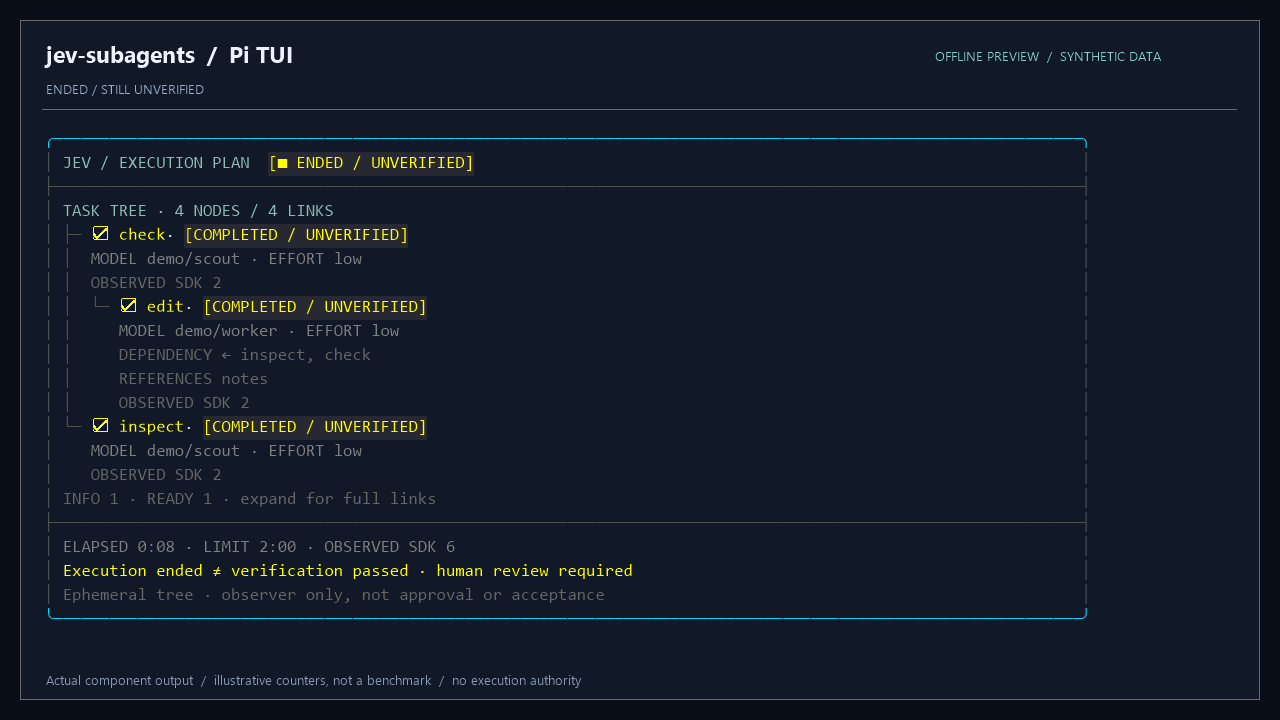
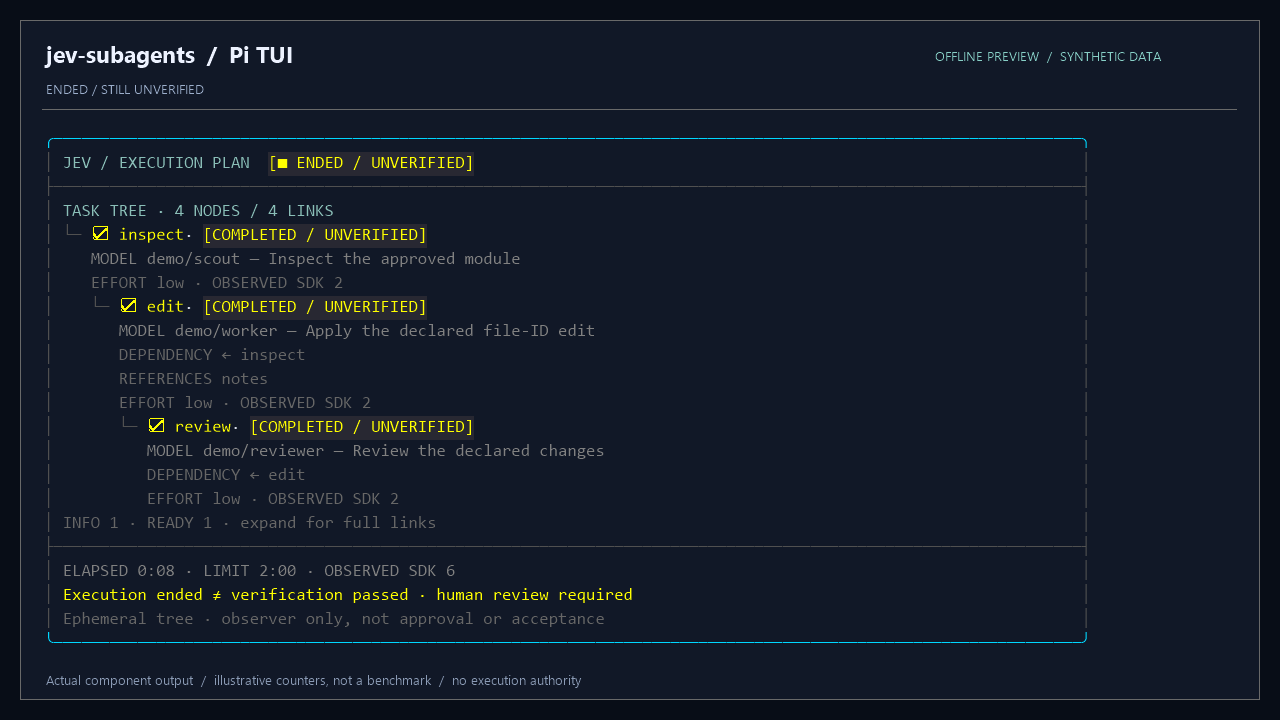
feat(ui): display English task labels on three-level plan previews

Changed region(s): [[0.0312, 0.55, 0.5, 0.8861], [0.0625, 0.3056, 0.4062, 0.3972], [0.25, 0.4278, 0.3438, 0.5194]]

diff --git a/src/plan-presentation.ts b/src/plan-presentation.ts
@@ -45,6 +45,8 @@ export type PlanView = {
 export type PlanTheme = Pick<Theme, "fg"> & Partial<Pick<Theme, "bg" | "bold">>;
 /** Supplied by the ephemeral widget, never stored in a view or receipt. */
 export type PlanFrame = { readonly tick: number };
+/** Reviewed human-only labels travel separately from transcript-safe plan data. */
+export type PlanTaskLabels = Readonly<Record<string, string>>;
 export function planHasActivity(view: PlanView): boolean {
   return ["running", "selecting", "checking"].includes(view.phase);
 }
@@ -117,7 +119,7 @@ const noPrefix: Prefix = { text: "", columns: 0 };
  * eight columns only an ellipsis fits usefully. Long fields show their head plus
  * an explicit omission marker; all in-contract A/B choices retain separate rows.
  * The same bounded layout is used by planText, with no ANSI in unthemed output. */
-export function renderPlan(view: PlanView, width: number, theme?: PlanTheme, summary = false, frame?: PlanFrame): string[] {
+export function renderPlan(view: PlanView, width: number, theme?: PlanTheme, summary = false, frame?: PlanFrame, taskLabels?: PlanTaskLabels): string[] {
   if (!Number.isSafeInteger(width) || width <= 0) return [];
   const columns = Math.min(width, 120);
   if (columns < 8) return ["…"];
@@ -279,14 +281,24 @@ export function renderPlan(view: PlanView, width: number, theme?: PlanTheme, sum
       const status = pill(badge, `[${badge.label}]`), heading = `${name} · ${status}`;
       if (visualLines(heading, inner - head.columns).length <= 2) row(heading, head, 2, tail);
       else { row(name, head, 2, tail); row(status, tail, Number.MAX_SAFE_INTEGER); }
-      row(paint("muted", `MODEL ${source(node.model ?? "pending")} · EFFORT ${source(node.thinking ?? "pending")}`), tail, 3);
+      const label: unknown = taskLabels ? Object.getOwnPropertyDescriptor(taskLabels, node.id)?.value : undefined;
+      const labeled = typeof label === "string" && label.trim().length > 0;
+      if (labeled) {
+        const text = paint("muted", `MODEL ${source(node.model ?? "pending")} — ${source(label.slice(0, 120))}`);
+        const available = inner - tail.columns, wrapped = visualLines(text, available);
+        if (wrapped.length > 1) {
+          omitted = true;
+          row(visualLines(text, available - 2)[0]! + paint("warning", " …"), tail, 1);
+        } else row(text, tail, 1);
+      } else row(paint("muted", `MODEL ${source(node.model ?? "pending")} · EFFORT ${source(node.thinking ?? "pending")}`), tail, 3);
       if (node.after.length) row(paint("dim", `DEPENDENCY ← ${node.after.map(id => source(id)).join(", ")}`), tail, 2);
       const references = edges.filter(edge => edge.kind === "reference" && edge.to === node.id);
       if (references.length) {
         const selected = references.filter(edge => edge.status === "active").map(edge => source(edge.from));
         row(paint("dim", `REFERENCES ${selected.length ? selected.join(", ") : references.some(edge => edge.status === "pending") ? "pending" : "none"}`), tail, 2);
       }
-      if (node.modelCalls !== undefined) row(paint("dim", `OBSERVED SDK ${validCount(node.modelCalls) ? node.modelCalls : "unknown"}`), tail, 2);
+      if (node.modelCalls !== undefined) row(paint("dim", `${labeled ? `EFFORT ${source(node.thinking ?? "pending")} · ` : ""}OBSERVED SDK ${validCount(node.modelCalls) ? node.modelCalls : "unknown"}`), tail, 2);
+      else if (labeled) row(paint("dim", `EFFORT ${source(node.thinking ?? "pending")}`), tail, 2);
       if ((depths.get(node.id) ?? 1) >= displayDepth && below.length) {
         below.forEach(node => shown.add(node.id));
         row(paint("muted", `… ${below.length} hidden descendant${below.length === 1 ? "" : "s"} · ${stateCounts(below)}`), tail, Number.MAX_SAFE_INTEGER);

diff --git a/src/plan-widget.ts b/src/plan-widget.ts
@@ -1,5 +1,5 @@
 import type { ExtensionAPI, ExtensionContext } from "@earendil-works/pi-coding-agent";
-import { planHasActivity, renderPlan, type PlanView } from "./plan-presentation.ts";
+import { planHasActivity, renderPlan, type PlanView, type PlanTaskLabels } from "./plan-presentation.ts";
 import { planReceipt } from "./plan-state.ts";
 
 const FRAME_MS = 120; // ~8fps, only while the supplied view describes live work.
@@ -16,14 +16,14 @@ export function registerPlanWidgets(pi: ExtensionAPI) {
     // Effect-local accessibility policy; never part of a receipt or execution packet.
     const staticSafe = process.env.NO_COLOR !== undefined || process.env.TERM === "dumb";
     let closed = false, mounted = false, terminal = false, sessionId: string | undefined;
-    let view: PlanView | undefined, displayed: PlanView | undefined, requestRender: (() => void) | undefined;
+    let view: PlanView | undefined, displayed: PlanView | undefined, taskLabels: PlanTaskLabels | undefined, requestRender: (() => void) | undefined;
     let observedAt = 0, tick = 0, timer: ReturnType<typeof setInterval> | undefined;
     try { sessionId = ctx.sessionManager.getSessionId(); } catch { /* A missing session cannot receive a widget. */ }
     const stopTimer = () => { clearInterval(timer); timer = undefined; };
     const close = () => {
       if (closed) return;
       closed = true; stopTimer(); signal?.removeEventListener("abort", close);
-      view = undefined; displayed = undefined; requestRender = undefined;
+      view = undefined; displayed = undefined; taskLabels = undefined; requestRender = undefined;
       const remove = mounted; mounted = false;
       if (clearCurrent === close) clearCurrent = undefined;
       if (remove) { try { ctx.ui.setWidget("jev-execution-plan", undefined); } catch { /* UI disposal cannot change task settlement. */ } }
@@ -55,12 +55,16 @@ export function registerPlanWidgets(pi: ExtensionAPI) {
     if (signal?.aborted) close();
     return {
       isCurrent: current,
-      update(value: PlanView) {
+      update(value: PlanView, labels?: PlanTaskLabels) {
         if (!current() || terminal) return;
         try {
           if (ctx.mode !== "tui" || !ctx.hasUI || typeof ctx.ui.setWidget !== "function") { if (mounted) close(); return; }
           // Explicit projection strips private titles and any undeclared properties before retention.
           view = structuredClone(planReceipt(value)); displayed = view; observedAt = performance.now();
+          taskLabels = value.version === 3 && labels ? Object.fromEntries(view.nodes.flatMap(node => {
+            const text: unknown = Object.getOwnPropertyDescriptor(labels, node.id)?.value;
+            return node.kind === "task" && typeof text === "string" && text.trim() ? [[node.id, text.slice(0, 120)]] : [];
+          })) : undefined;
           terminal = view.phase === "finished" || view.phase === "stopped";
           if (!animated()) { stopTimer(); tick = 0; }
           if (!mounted) {
@@ -71,7 +75,7 @@ export function registerPlanWidgets(pi: ExtensionAPI) {
               return {
                 render(width) {
                   if (!current() || !displayed) return [];
-                  try { return renderPlan(displayed, width, staticSafe ? undefined : theme, true, animated() ? { tick } : undefined); }
+                  try { return renderPlan(displayed, width, staticSafe ? undefined : theme, true, animated() ? { tick } : undefined, taskLabels); }
                   catch { close(); return []; }
                 },
                 // Stateless themed rendering: invalidation cannot retain old ANSI colors.

diff --git a/src/task-tree-effects.ts b/src/task-tree-effects.ts
@@ -24,7 +24,7 @@ import { reduceTaskTree, treeLive, treeTasks, treeInfos, treeReferences, treeDig
   type TreePrepared, type TaskTreeInput, type TreeEvent, type TreeEffect, type TreeSelection, type TreeUpdate, type TreeState } from "./task-tree.ts";
 import { treeOwner, treeLock, treePrompts, validTreeWorker, type TreeWorkerInput } from "./task-tree-protocol.ts";
 import { taskTreeView } from "./task-tree-view.ts";
-import type { PlanView } from "./plan-presentation.ts";
+import type { PlanView, PlanTaskLabels } from "./plan-presentation.ts";
 
 export const TREE_ERROR = "Task tree stopped. No automatic retry, fallback, grant extension or rollback.";
 const fail = (): never => { throw new Error(TREE_ERROR); };
@@ -102,7 +102,7 @@ export type TreeResult = { readonly authorization?: "full_access"; readonly kind
   readonly reports: readonly { taskId: string; text: string; truncated: boolean }[] };
 /** I/O interpreter: concurrent owned work returns events; only the reducer admits work or changes graph data. */
 export async function taskTree(input: unknown, ctx: ExtensionContext, signal?: AbortSignal, io = taskTreeIO,
-  onPlan?: (view: PlanView) => void, parent?: TreeParent, observeUi?: ApprovalUiObserver, access?: FullAccessLease): Promise<TreeResult> {
+  onPlan?: (view: PlanView, labels?: PlanTaskLabels) => void, parent?: TreeParent, observeUi?: ApprovalUiObserver, access?: FullAccessLease): Promise<TreeResult> {
   let state: TreeState = { phase: "idle" }, tree: TreePrepared | undefined, fingerprint: string | undefined, owner: GoalProjectOwner | undefined;
   let connection: JevConnection | null = null, timer: ReturnType<typeof setTimeout> | undefined, ownerAttempted = false, cleanup = true, retained = false;
   const controller = new AbortController(), combined = AbortSignal.any([controller.signal, ...(signal ? [signal] : []), ...(access ? [access.signal] : [])]);
@@ -110,7 +110,17 @@ export async function taskTree(input: unknown, ctx: ExtensionContext, signal?: A
   // Windows file-scope reads hold exclusive handles; serialize them without caching freshness.
   let fileChecks = Promise.resolve();
   const readState = (): TreeState => state;
-  const display = () => { if (tree) { try { onPlan?.(taskTreeView(tree, state, Date.now())); } catch { /* Observer-only. */ } } };
+  const display = () => {
+    if (!tree) return;
+    try {
+      const configured = tree.input.display?.labels;
+      const labels = treeLive(state) ? Object.fromEntries(treeTasks(tree.input).map(task => {
+        const text: unknown = configured ? Object.getOwnPropertyDescriptor(configured, task.id)?.value : undefined;
+        return [task.id, typeof text === "string" ? text : task.mode === "read" ? "Read assigned source" : "Apply approved file-ID changes"];
+      })) : undefined;
+      onPlan?.(taskTreeView(tree, state, Date.now()), labels);
+    } catch { /* Observer-only. */ }
+  };
   const send = (event: TreeEvent) => { const step = reduceTaskTree(state, event); state = step.state; queue.push(...step.effects); display(); };
   const cancelled = () => send({ type: "stop", reason: "cancelled_or_expired" });
   const current = async (files = treeLive(state)?.files) => {

diff --git a/test/task-tree-effects.test.ts b/test/task-tree-effects.test.ts
@@ -3,7 +3,7 @@ import { accessFixture } from "./helpers/delegation-access-fixture.ts";
 import { test } from "node:test";
 import { taskTree, taskTreeApproval } from "../src/task-tree-effects.ts";
 import { taskTreeOwner } from "../src/task-tree-owner.ts";
-import { treeTasks, treeOptions } from "../src/task-tree.ts";
+import { treeTasks, treeOptions, treeRequest, treeDigest } from "../src/task-tree.ts";
 import { treeFixture, treeRouting } from "./helpers/task-tree-fixture.ts";
 import type { TreeWorkerInput } from "../src/task-tree-protocol.ts";
 import { DirectoryValidationError } from "../src/directory-diagnostics.ts";
@@ -21,6 +21,35 @@ function mutationFixture() {
   };
   return f;
 }
+test("reviewed English labels travel only to the human observer, never plans, routing or child packets", async t => {
+  const f = treeFixture(); let approvals = 0;
+  const observations: { view: unknown; labels: Readonly<Record<string, string>> | undefined; approvals: number }[] = [];
+  f.input.display = { labels: { a: "DISPLAY_ONLY_INSPECT", b: "DISPLAY_ONLY_TESTS", c: "DISPLAY_ONLY_REVIEW" } };
+  f.ctx.ui.confirm = async (_title, packet) => { assert.match(packet, /DISPLAY_ONLY_INSPECT/); approvals++; return true; };
+  const result = await taskTree(f.input, f.ctx, t.signal, f.io, (view, labels) => {
+    observations.push({ view: structuredClone(view), labels: labels ? { ...labels } : undefined, approvals });
+  });
+  assert.equal(result.status, "completed_unverified"); assert.ok(observations.some(row => row.labels));
+  for (const row of observations) {
+    assert.doesNotMatch(JSON.stringify(row.view), /DISPLAY_ONLY|PRIVATE_TASK/);
+    if (row.labels) { assert.equal(row.approvals, 1); assert.equal(row.labels.a, "DISPLAY_ONLY_INSPECT"); }
+    else assert.equal(row.approvals, 0);
+  }
+  assert.doesNotMatch(JSON.stringify(result), /DISPLAY_ONLY/);
+  assert.doesNotMatch(JSON.stringify(f.packets), /DISPLAY_ONLY/);
+  assert.doesNotMatch(JSON.stringify(treeRequest(f.tree, "a")), /DISPLAY_ONLY/);
+  const changed = structuredClone(f.tree); changed.input.display!.labels!.a = "Different reviewed label";
+  assert.notEqual(treeDigest(changed), treeDigest(f.tree));
+});
+test("unlabelled legacy trees use fixed English role text rather than private task summaries", async t => {
+  for (const mutation of [false, true]) {
+    const f = mutation ? mutationFixture() : treeFixture(), seen: string[] = [];
+    const result = await taskTree(f.input, f.ctx, t.signal, f.io, (_view, labels) => { if (labels) seen.push(...Object.values(labels)); });
+    assert.equal(result.status, "completed_unverified"); assert.ok(seen.length > 0);
+    assert.ok(seen.every(text => text === (mutation ? "Apply approved file-ID changes" : "Read assigned source")));
+    assert.doesNotMatch(seen.join("\n"), /PRIVATE_TASK/);
+  }
+});
 test("tree freshness reads overlap without acquiring ownership or dispatching from partial checks", { timeout: 5000 }, async t => {
   const f = mutationFixture();
   let contextStarted = false, filesStarted = false, releaseContext!: () => void, releaseFiles!: () => void;

diff --git a/test/task-tree-tui.test.ts b/test/task-tree-tui.test.ts
@@ -12,6 +12,7 @@ import { delegateResultView } from "../src/delegate-presentation.ts";
 const tick = () => new Promise<void>(resolve => setImmediate(resolve));
 for (const stop of ["complete", "abort", "session_before_switch", "session_before_fork", "session_before_tree", "session_before_compact", "session_shutdown"]) test(`registered native task-tree TUI updates and clears on ${stop}`, { timeout: 10000 }, async t => {
   const f = treeFixture(), tools: ToolDefinition[] = [], hooks = new Map<string, (() => void | Promise<void>)[]>(), panels: (string | undefined)[] = [];
+  f.input.display = { labels: { a: "Inspect approved source", b: "Read declared tests", c: "Review declared changes" } };
   const controller = new AbortController(), releases: (() => void)[] = []; let starts = 0, aborts = 0, reviews = 0, mounts = 0, renders = 0;
   let widget: { render(width: number): string[]; dispose?(): void } | undefined;
   const requestRender = () => {
@@ -50,7 +51,8 @@ for (const stop of ["complete", "abort", "session_before_switch", "session_befor
   while (starts < 2) await tick(); assert.equal(reviews, 1);
   assert.ok(panels.some(text => text?.includes("TASK TREE") && text.includes("DEPENDENCY") && text.includes("RUNNING")));
   assert.ok(panels.some(text => text?.includes("OBSERVED SDK 1") && text.includes("offline/synthetic")));
-  assert.doesNotMatch(JSON.stringify(updates), /PRIVATE_REPORT|PRIVATE_REVIEWED|PRIVATE_TASK/);
+  assert.doesNotMatch(JSON.stringify(updates), /PRIVATE_REPORT|PRIVATE_REVIEWED|PRIVATE_TASK|Inspect approved source|Read declared tests|Review declared changes/);
+  assert.ok(panels.some(text => text?.includes("MODEL offline/synthetic — Inspect approved source")));
   await assert.rejects(tool.execute("other", { parallelRead: { task: "Read independent files.", tasks: [{ id: "x", agent: "scout", summary: "Read only." }], limits: { seconds: 60 } } }, t.signal, undefined, ctx), /closed, busy or uncertain/);
   let navigation: Promise<unknown> | undefined;
   if (stop === "abort") controller.abort();
@@ -61,6 +63,7 @@ for (const stop of ["complete", "abort", "session_before_switch", "session_befor
   assert.equal(mounts, 1); assert.ok(renders > 2, "Updates must render the existing component, not remount it");
   if (stop === "complete") {
     const result = await work; const plan = (result.details as { plan: unknown }).plan; assert.equal(validPlanReceipt(plan), true);
+    assert.doesNotMatch(JSON.stringify(plan), /Inspect approved source|Read declared tests|Review declared changes/);
     assert.ok(panels.some(text => text?.includes("COMPLETED / UNVERIFIED"))); assert.equal(starts, 3);
   } else assert.equal(starts, 2);
 });

diff --git a/src/task-tree.ts b/src/task-tree.ts
@@ -26,6 +26,8 @@ const depth = Type.Integer({ minimum: 1, maximum: 3 });
 export const TreeDisplaySchema = Type.Object({
   maxDepth: Type.Optional({ ...depth, description: "Visible depth in the compact widget; default 3. Does not limit execution or expanded review." }),
   animations: Type.Optional(Type.Boolean({ description: "Animate the native TUI widget (default true). Set false for reduced motion. No effect outside TUI." })),
+  labels: Type.Optional(Type.Record(id, prose(120), { maxProperties: 3, additionalProperties: false,
+    description: "Optional short English task descriptions keyed by declared task IDs. Reviewed human-only UI labels; never source, credentials or private details. Not sent to routing, worker input or transcript receipts." })),
 }, closed);
 export const TaskTreeInputSchema = Type.Object({ task: prose(LIMITS.task), nodes: Type.Array(Type.Union([TreeTaskSchema, TreeInfoSchema]), { minItems: 1, maxItems: 11 }),
   edges: Type.Array(TreeEdgeSchema, { maxItems: 32 }), files: Type.Optional(Type.Array(Type.Object({ path: prose(512), access: Type.Union([Type.Literal("read"), Type.Literal("read_write")]) }, closed), { minItems: 1, maxItems: 16 })),
@@ -74,6 +76,7 @@ export function validTaskTree(value: unknown): value is TaskTreeInput {
     const tasks = treeTasks(value), infos = treeInfos(value), ids = value.nodes.map(node => node.id);
     if (!tasks.length || tasks.length > value.limits.workerRuns || infos.length > 8 || new Set(ids).size !== ids.length || new Set(tasks.flatMap(task => task.agents)).size > 8 ||
       tasks.some(task => !task.summary.trim() || !task.query.trim() || task.agents.length * referenceSelections(value, task.id).length > LIMITS.agents)) return false;
+    if (Object.entries(value.display?.labels ?? {}).some(([id, text]) => !tasks.some(task => task.id === id) || !text.trim())) return false;
     const pairs = new Set<string>();
     for (const edge of value.edges) {
       const from = value.nodes.find(node => node.id === edge.from), to = value.nodes.find(node => node.id === edge.to), pair = `${edge.from}:${edge.to}`;

diff --git a/test/plan-widget.test.ts b/test/plan-widget.test.ts
@@ -72,6 +72,22 @@ test("one native component per lease requests renders at ~8fps without streaming
   const before = f.counts(); f.callbacks.forEach(callback => callback()); panel.update(view); panel.close(); assert.deepEqual(f.counts(), before);
 });
 
+test("human-only labels render locally, never private titles, and clear with the next update or closed lease", t => {
+  const f = fixture(t), panel = f.open(f.ctx);
+  panel.update(view, { a: "Inspect the approved module" });
+  f.advance();
+  assert.match(f.frames.at(-1)!.map(stripVTControlCharacters).join("\n"), /MODEL offline\/model — Inspect the approved module/);
+  assert.doesNotMatch(f.frames.at(-1)!.join("\n"), /PRIVATE_TASK/);
+  panel.update(view);
+  assert.doesNotMatch(f.frames.at(-1)!.join("\n"), /Inspect the approved module/);
+  let getters = 0;
+  const labels = Object.create({ a: "INHERITED_LABEL" }) as Record<string, string>;
+  panel.update(view, labels); assert.doesNotMatch(f.frames.at(-1)!.join("\n"), /INHERITED_LABEL/);
+  Object.defineProperty(labels, "a", { get() { getters++; throw new Error("Getter must not run"); } });
+  panel.update(view, labels); assert.equal(getters, 0); assert.equal(panel.isCurrent(), true);
+  panel.close(); const before = f.counts(); panel.update(view, { a: "STALE_LABEL" }); f.callbacks.forEach(callback => callback());
+  assert.deepEqual(f.counts(), before);
+});
 test("theme invalidation rebuilds fg/bg/bold colors on the mounted component, including reduced-motion widgets", t => {
   const f = fixture(t), panel = f.open(f.ctx);
   panel.update({ ...view, display: { animations: false } });

diff --git a/test/plan-presentation.test.ts b/test/plan-presentation.test.ts
@@ -31,6 +31,19 @@ function measuredWidth(line: string): number {
   }
   return low;
 }
+test("tree task labels are one-line human-only text with bounded columns and escaped controls", () => {
+  const view: PlanView = { version: 3, phase: "running", elapsedMs: 1, seconds: 120, modelCalls: 1,
+    nodes: [{ id: "inspect", title: "PRIVATE_SOURCE_TITLE", kind: "task", after: [], state: "running", model: "demo/scout", thinking: "low", modelCalls: 1 }], edges: [] };
+  for (const width of [24, 48, 80, 120]) {
+    const lines = renderPlan(view, width, undefined, true, undefined, { inspect: "Inspect the approved source and identify the exact parser boundary without edits" });
+    assert.ok(lines.every(line => measuredWidth(line) <= width));
+    assert.match(lines.join("\n"), /MODEL/); assert.doesNotMatch(lines.join("\n"), /PRIVATE_SOURCE_TITLE/);
+    if (width < 120) assert.match(lines.join("\n"), /…/);
+  }
+  const escaped = renderPlan(view, 120, undefined, true, undefined, { inspect: "Inspect\n\u001b[31mtext https://example.invalid" }).join("\n");
+  assert.doesNotMatch(escaped, /\u001b|https?:/); assert.match(escaped, /\\n/);
+  assert.doesNotMatch(renderPlan(view, 120, undefined, true).join("\n"), /Inspect the approved source/);
+});
 function frozen<T>(value: T): T {
   if (value !== null && typeof value === "object") {
     Object.freeze(value);

diff --git a/test/task-tree.test.ts b/test/task-tree.test.ts
@@ -28,6 +28,14 @@ test("closed tree schema rejects malformed, cyclic, over-bound and caller author
   assert.equal(f.counts().preparations, 0); assert.equal(f.counts().confirmations, 0);
   for (const property of ["grant", "events", "state", "memory", "parallelRead"]) assert.equal(Value.Check(DelegateToolInputSchema, { tree: f.input, [property]: {} }), false);
 });
+test("human-only display labels name declared tasks and never widen transcript receipt fields", () => {
+  const f = treeFixture();
+  assert.equal(validTaskTree({ ...f.input, display: { labels: { a: "Inspect the approved source" } } }), true);
+  for (const labels of [{ missing: "Inspect source" }, { a: " " }, { a: "x".repeat(121) }, { a: 1 }, { a: "Inspect", b: "Read", c: "Review", d: "Extra" }])
+    assert.equal(validTaskTree({ ...f.input, display: { labels } }), false);
+  const view = taskTreeView(f.tree, { phase: "approval", tree: f.tree, reviews: 0 }, 0);
+  assert.equal(validPlanReceipt({ ...planReceipt(view), display: { labels: { a: "DISPLAY_ONLY" } } }), false);
+});
 test("task dependency depth defaults to3, is order-independent, and uses the maximum join predecessor", () => {
   const f = treeFixture();
   for (const edges of [

diff --git a/src/index.ts b/src/index.ts
@@ -276,8 +276,8 @@ function registerJevToolsWithHarness(pi: ExtensionAPI): GraphExecutionHarness {
           return withActiveExecution(ctx, signal, (ownSignal, lease) => withJevSession(ctx, async () => {
             const panel = openPlan(ctx, ownSignal);
             try {
-              const result = await taskTree(params.tree, ctx, ownSignal, undefined, view => {
-                if (!ownSignal.aborted && panel.isCurrent()) { panel.update(view); updatePlan(onUpdate, view); }
+              const result = await taskTree(params.tree, ctx, ownSignal, undefined, (view, labels) => {
+                if (!ownSignal.aborted && panel.isCurrent()) { panel.update(view, labels); updatePlan(onUpdate, view); }
               }, parent, observeUi, lease);
               if (!result.cleanupConfirmed || result.lockRetained || result.metrics.reservedModelCalls !== 0 || result.metrics.reservedJevRequests > 0) executionUncertain = true;
               if (result.status === "stopped") captureFailure(ctx, "Task tree stopped; inspect accounting and cleanup. No retry or fallback.", generation);

diff --git a/src/plan-state.ts b/src/plan-state.ts
@@ -28,7 +28,7 @@ const GraphReceiptSchema = Type.Object({ ...ReceiptSchema.properties, version: T
   edges: Type.Array(Type.Object({ from: id, to: id, when: Type.Optional(id), status: choice("active", "inactive", "pending") }, closed), { maxItems: 32 }),
 }, closed);
 const TreeReceiptSchema = Type.Object({ ...ReceiptSchema.properties, version: Type.Literal(3), modelCallsKnown: Type.Optional(Type.Boolean()),
-  display: Type.Optional(TreeDisplaySchema),
+  display: Type.Optional(Type.Object({ maxDepth: TreeDisplaySchema.properties.maxDepth, animations: TreeDisplaySchema.properties.animations }, closed)),
   nodes: Type.Array(Type.Object({ id, title: id, kind: choice("task", "info"), after: Type.Array(id, { maxItems: 2, uniqueItems: true }),
     state: choice("pending", "selecting", "running", "completed_unverified", "stopped", "ready"), modelCalls: Type.Optional(Type.Union([count, Type.Null()])),
     agent: Type.Optional(label), model: Type.Optional(label), thinking: ReceiptSchema.properties.nodes.items.properties.thinking,

diff --git a/README.md b/README.md
@@ -14,13 +14,15 @@ JEV-assisted subagents for [Pi](https://pi.dev), with native terminal plans, exp
 
 **First public prerelease: `v1.0.0-rc.1`.** This is a release candidate, not a claim of general task correctness, physical TUI certification or real-provider quality/billing. Runtime source, scripts and all regression tests are preserved in this public snapshot; private development history, personal-path reports and internal screenshots are not distributed.
 
-## See the plan, not a black box
+## See each model's job in a three-level tree
+
+**Current `main` UI preview:** human-only task labels below are newer than the immutable RC1 ZIP. They are available in updated source, not retroactively added to the published release.
 
 <p align="center">
-  <a href="docs/media/workflow.gif"><img src="docs/media/workflow.gif" alt="Synthetic native task-tree preview: exact-scope review, two concurrent read lanes, fresh checks, an exclusive file-ID edit, and an explicitly unverified ending." width="1120"></a>
+  <a href="docs/media/workflow.gif"><img src="docs/media/workflow.gif" alt="Synthetic three-level native task tree: scout inspects the approved module, worker performs a file-ID edit, reviewer checks the changes, and every model has an English one-line task description before an unverified ending." width="1120"></a>
 </p>
 
-**Real component output, synthetic scenario.** This GIF is an offline-rendered UI preview, **not a screen recording, live task, approval receipt or performance benchmark**. Model names, SDK counters and timing are illustrative. [Static preview](docs/media/task-tree.png) · [Capture method and provenance](docs/media/README.md).
+**Real component output, synthetic scenario.** This GIF is an offline-rendered UI preview, **not a screen recording, live task, approval receipt or performance benchmark**. Model names, SDK counters and timing are illustrative. Indentation represents task dependencies, not recursive delegation or extra workers. [Static preview](docs/media/task-tree.png) · [Capture method and provenance](docs/media/README.md).
 
 | Review before execution | Know what an ending means |
 | --- | --- |
